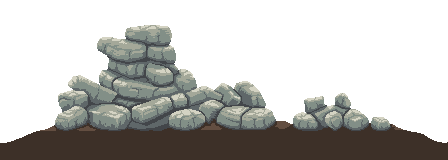
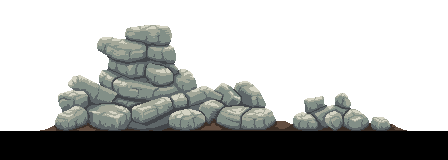
Feat : 맵 - 플레이어 간 픽셀 충돌

Changed region(s): [[0.0, 0.8125, 1.0, 1.0]]

diff --git a/DX_Project/Contents/PlayGameMode.cpp b/DX_Project/Contents/PlayGameMode.cpp
@@ -18,17 +18,28 @@ void APlayGameMode::BeginPlay()
 {
 	Super::BeginPlay();
 
-	std::shared_ptr<UCamera> Camera = GetWorld()->GetMainCamera();
-	Camera->SetActorLocation(FVector(0.0f, 0.0f, -100.0f));
+	UContentsConstValue::MapTex = UEngineTexture::FindRes("Back.png");
+	UContentsConstValue::MapTexScale = UContentsConstValue::MapTex->GetScale();
+
+	{
+		std::shared_ptr<UCamera> Camera = GetWorld()->GetMainCamera();
+		Camera->SetActorLocation(FVector(640.0f, -360.0f, -100.0f));
+	}
 
 	{
 		std::shared_ptr<APlayer> Actor = GetWorld()->SpawnActor<APlayer>("Player");
-		Actor->SetActorLocation({ 0.0f, 200.0f });
+		Actor->SetActorLocation({ 640.0f, -360.0f, 200.0f });
 	}
 
 	{
 		std::shared_ptr<APlayBack> Back = GetWorld()->SpawnActor<APlayBack>("PlayBack");
-		Back->SetActorLocation({ 0.0f, 0.0f, 500.0f });
+		
+		float TileSize = UContentsConstValue::TileSize;
+		float4 TexScale = UContentsConstValue::MapTexScale;
+		float4 ImageScale = { TexScale.X * TileSize, TexScale.Y * TileSize, 0.0f };
+
+		Back->SetActorScale3D(ImageScale);
+		Back->SetActorLocation({ ImageScale.hX(), -ImageScale.hY(), 500.0f });
 	}
 }
 

diff --git a/DX_Project/EngineBase/EngineMath.h b/DX_Project/EngineBase/EngineMath.h
@@ -298,6 +298,16 @@ public:
 		return std::lround(Y);
 	}
 
+	unsigned int uiX() const
+	{
+		return static_cast<unsigned int>(std::lround(X));
+	}
+
+	unsigned int uiY() const
+	{
+		return static_cast<unsigned int>(std::lround(Y));
+	}
+
 	float hX() const
 	{
 		return X * 0.5f;

diff --git a/DX_Project/Contents/ContentsConstValue.cpp b/DX_Project/Contents/ContentsConstValue.cpp
@@ -1,0 +1,6 @@
+#include "PreCompile.h"
+#include "ContentsConstValue.h"
+
+const float UContentsConstValue::TileSize = 64.0f;
+std::shared_ptr<UEngineTexture> UContentsConstValue::MapTex;
+float4 UContentsConstValue::MapTexScale;

diff --git a/DX_Project/Contents/PreCompile.h b/DX_Project/Contents/PreCompile.h
@@ -48,6 +48,7 @@
 
 #include <EngineCore/ThirdParty/DirectXTex/inc/DirectXTex.h>
 
+#include "ContentsConstValue.h"
 #include "ContentsEnum.h"
 
 #pragma comment (lib, "DirectXTex.lib")

diff --git a/DX_Project/Contents/ContentsConstValue.h b/DX_Project/Contents/ContentsConstValue.h
@@ -1,0 +1,9 @@
+#pragma once
+
+class UContentsConstValue
+{
+public:
+	static const float TileSize;
+	static std::shared_ptr<UEngineTexture> MapTex;
+	static float4 MapTexScale;
+};
